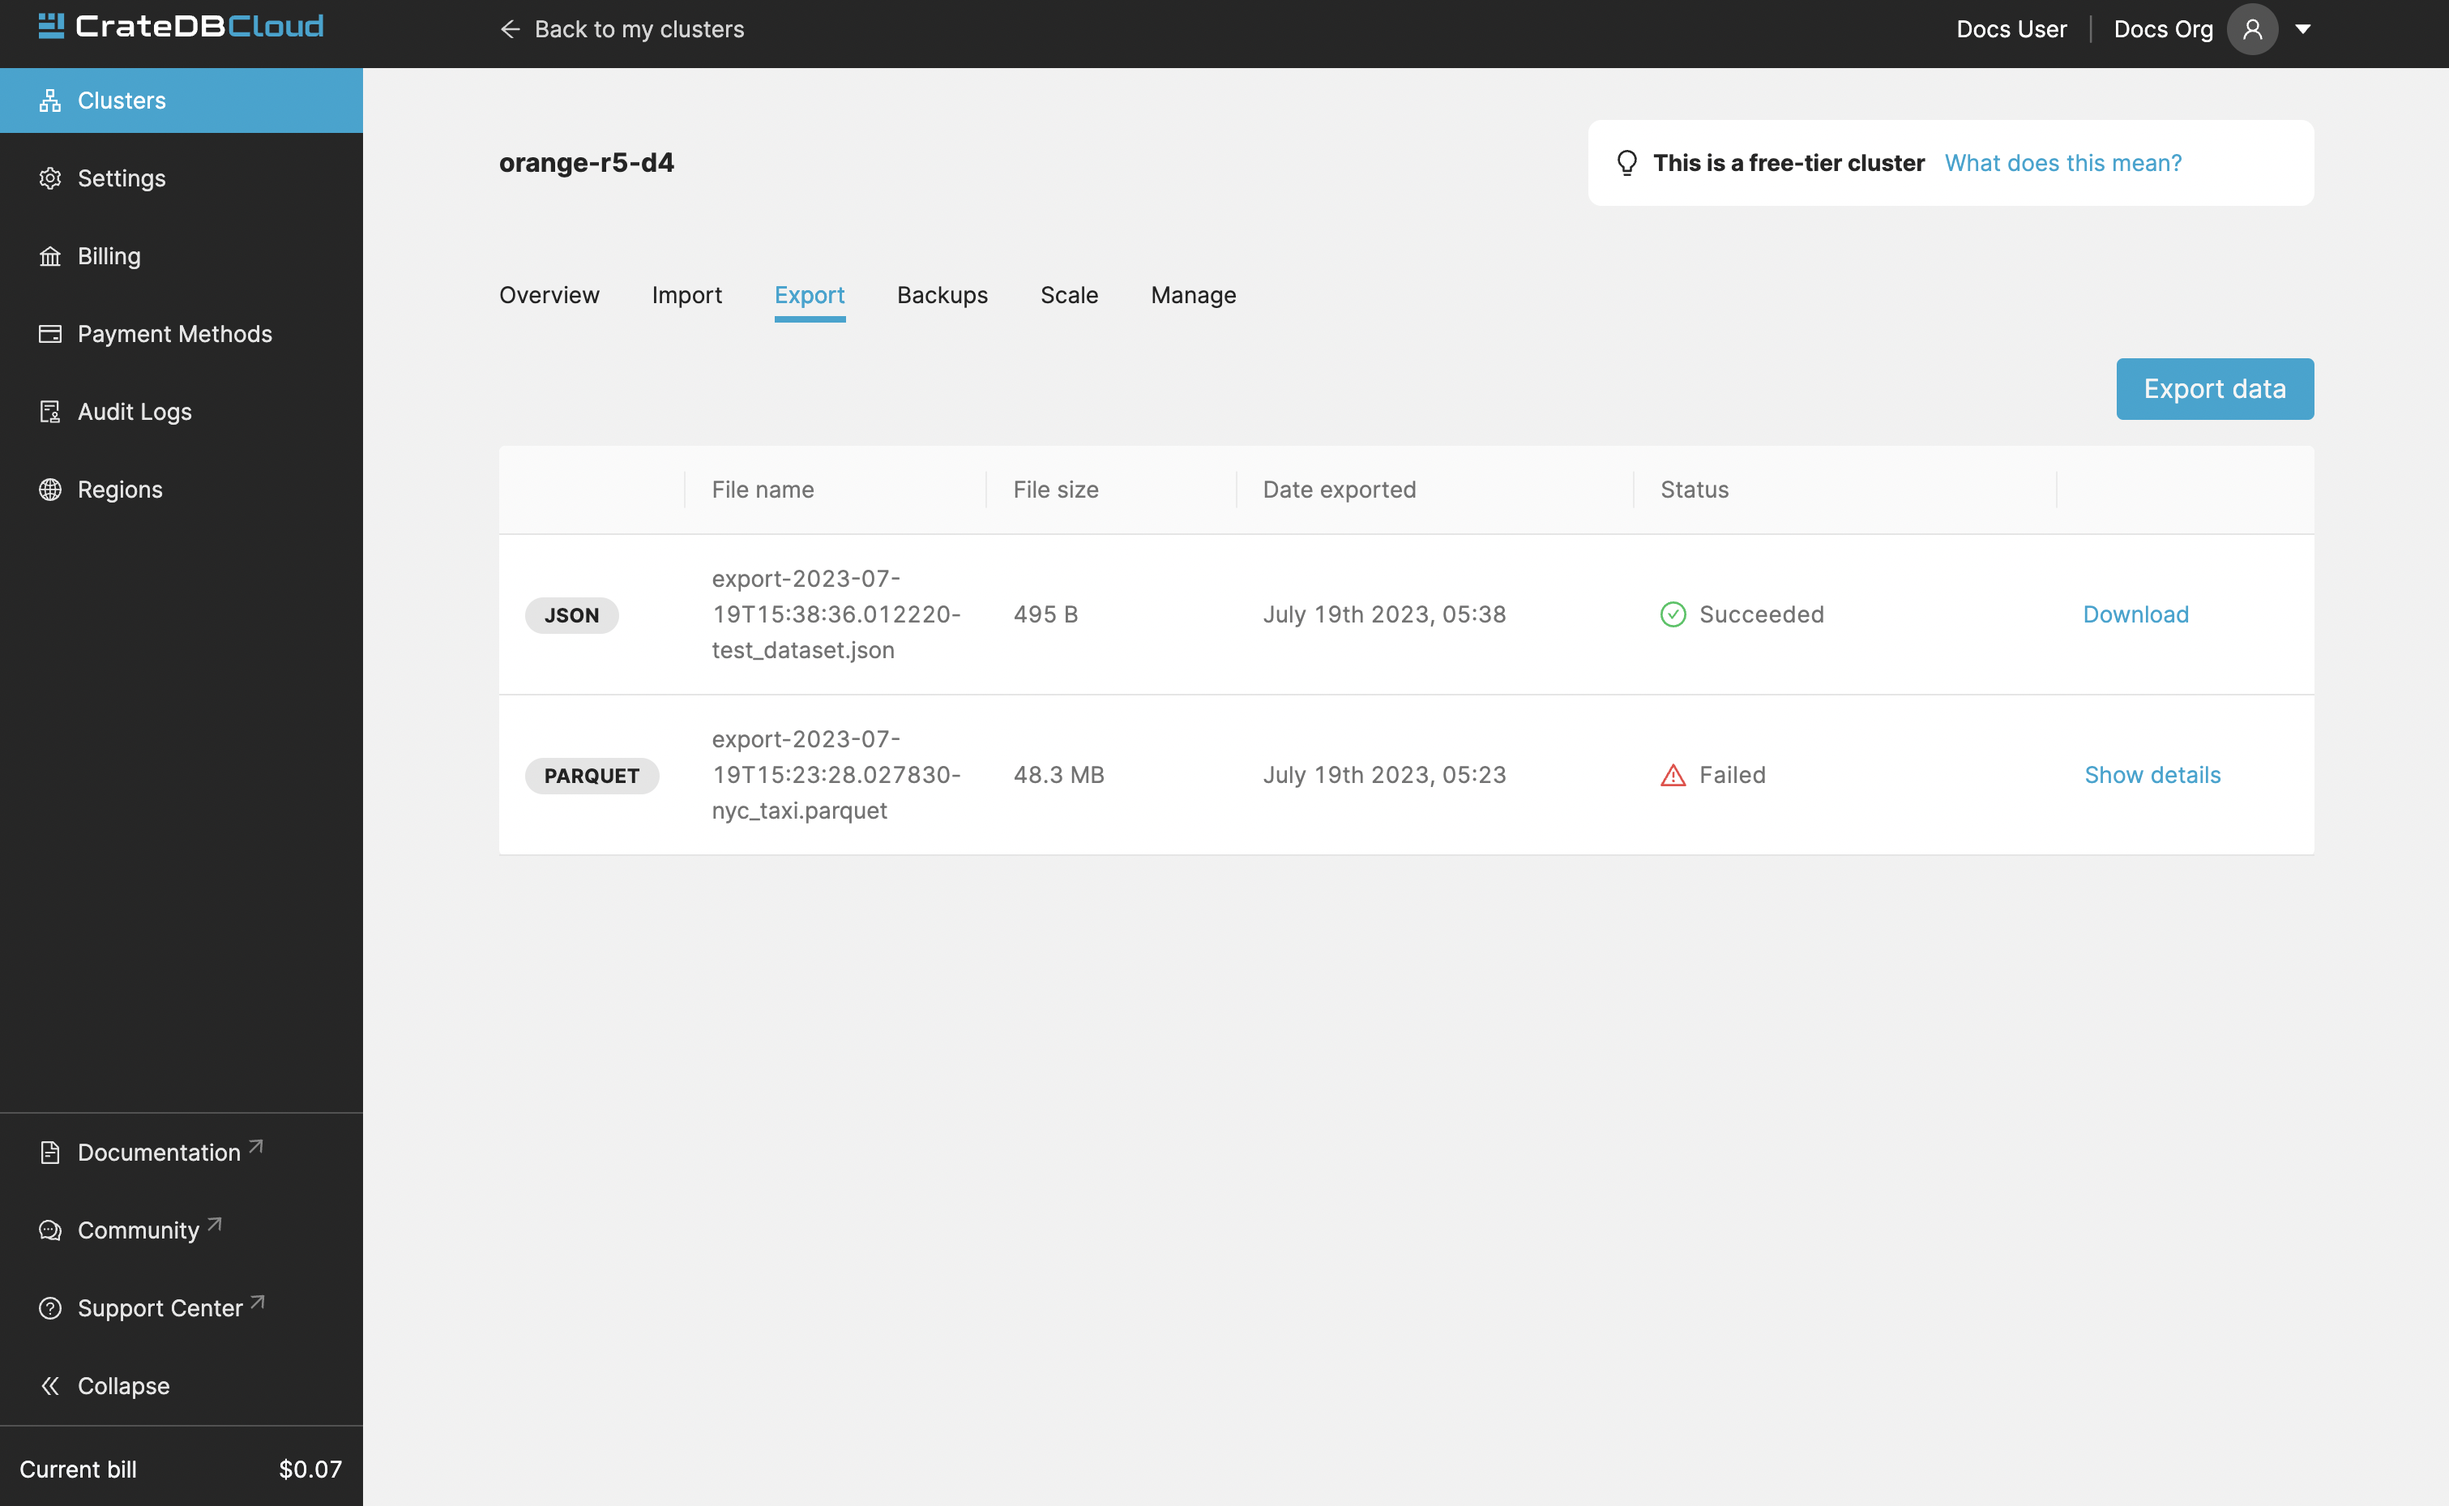
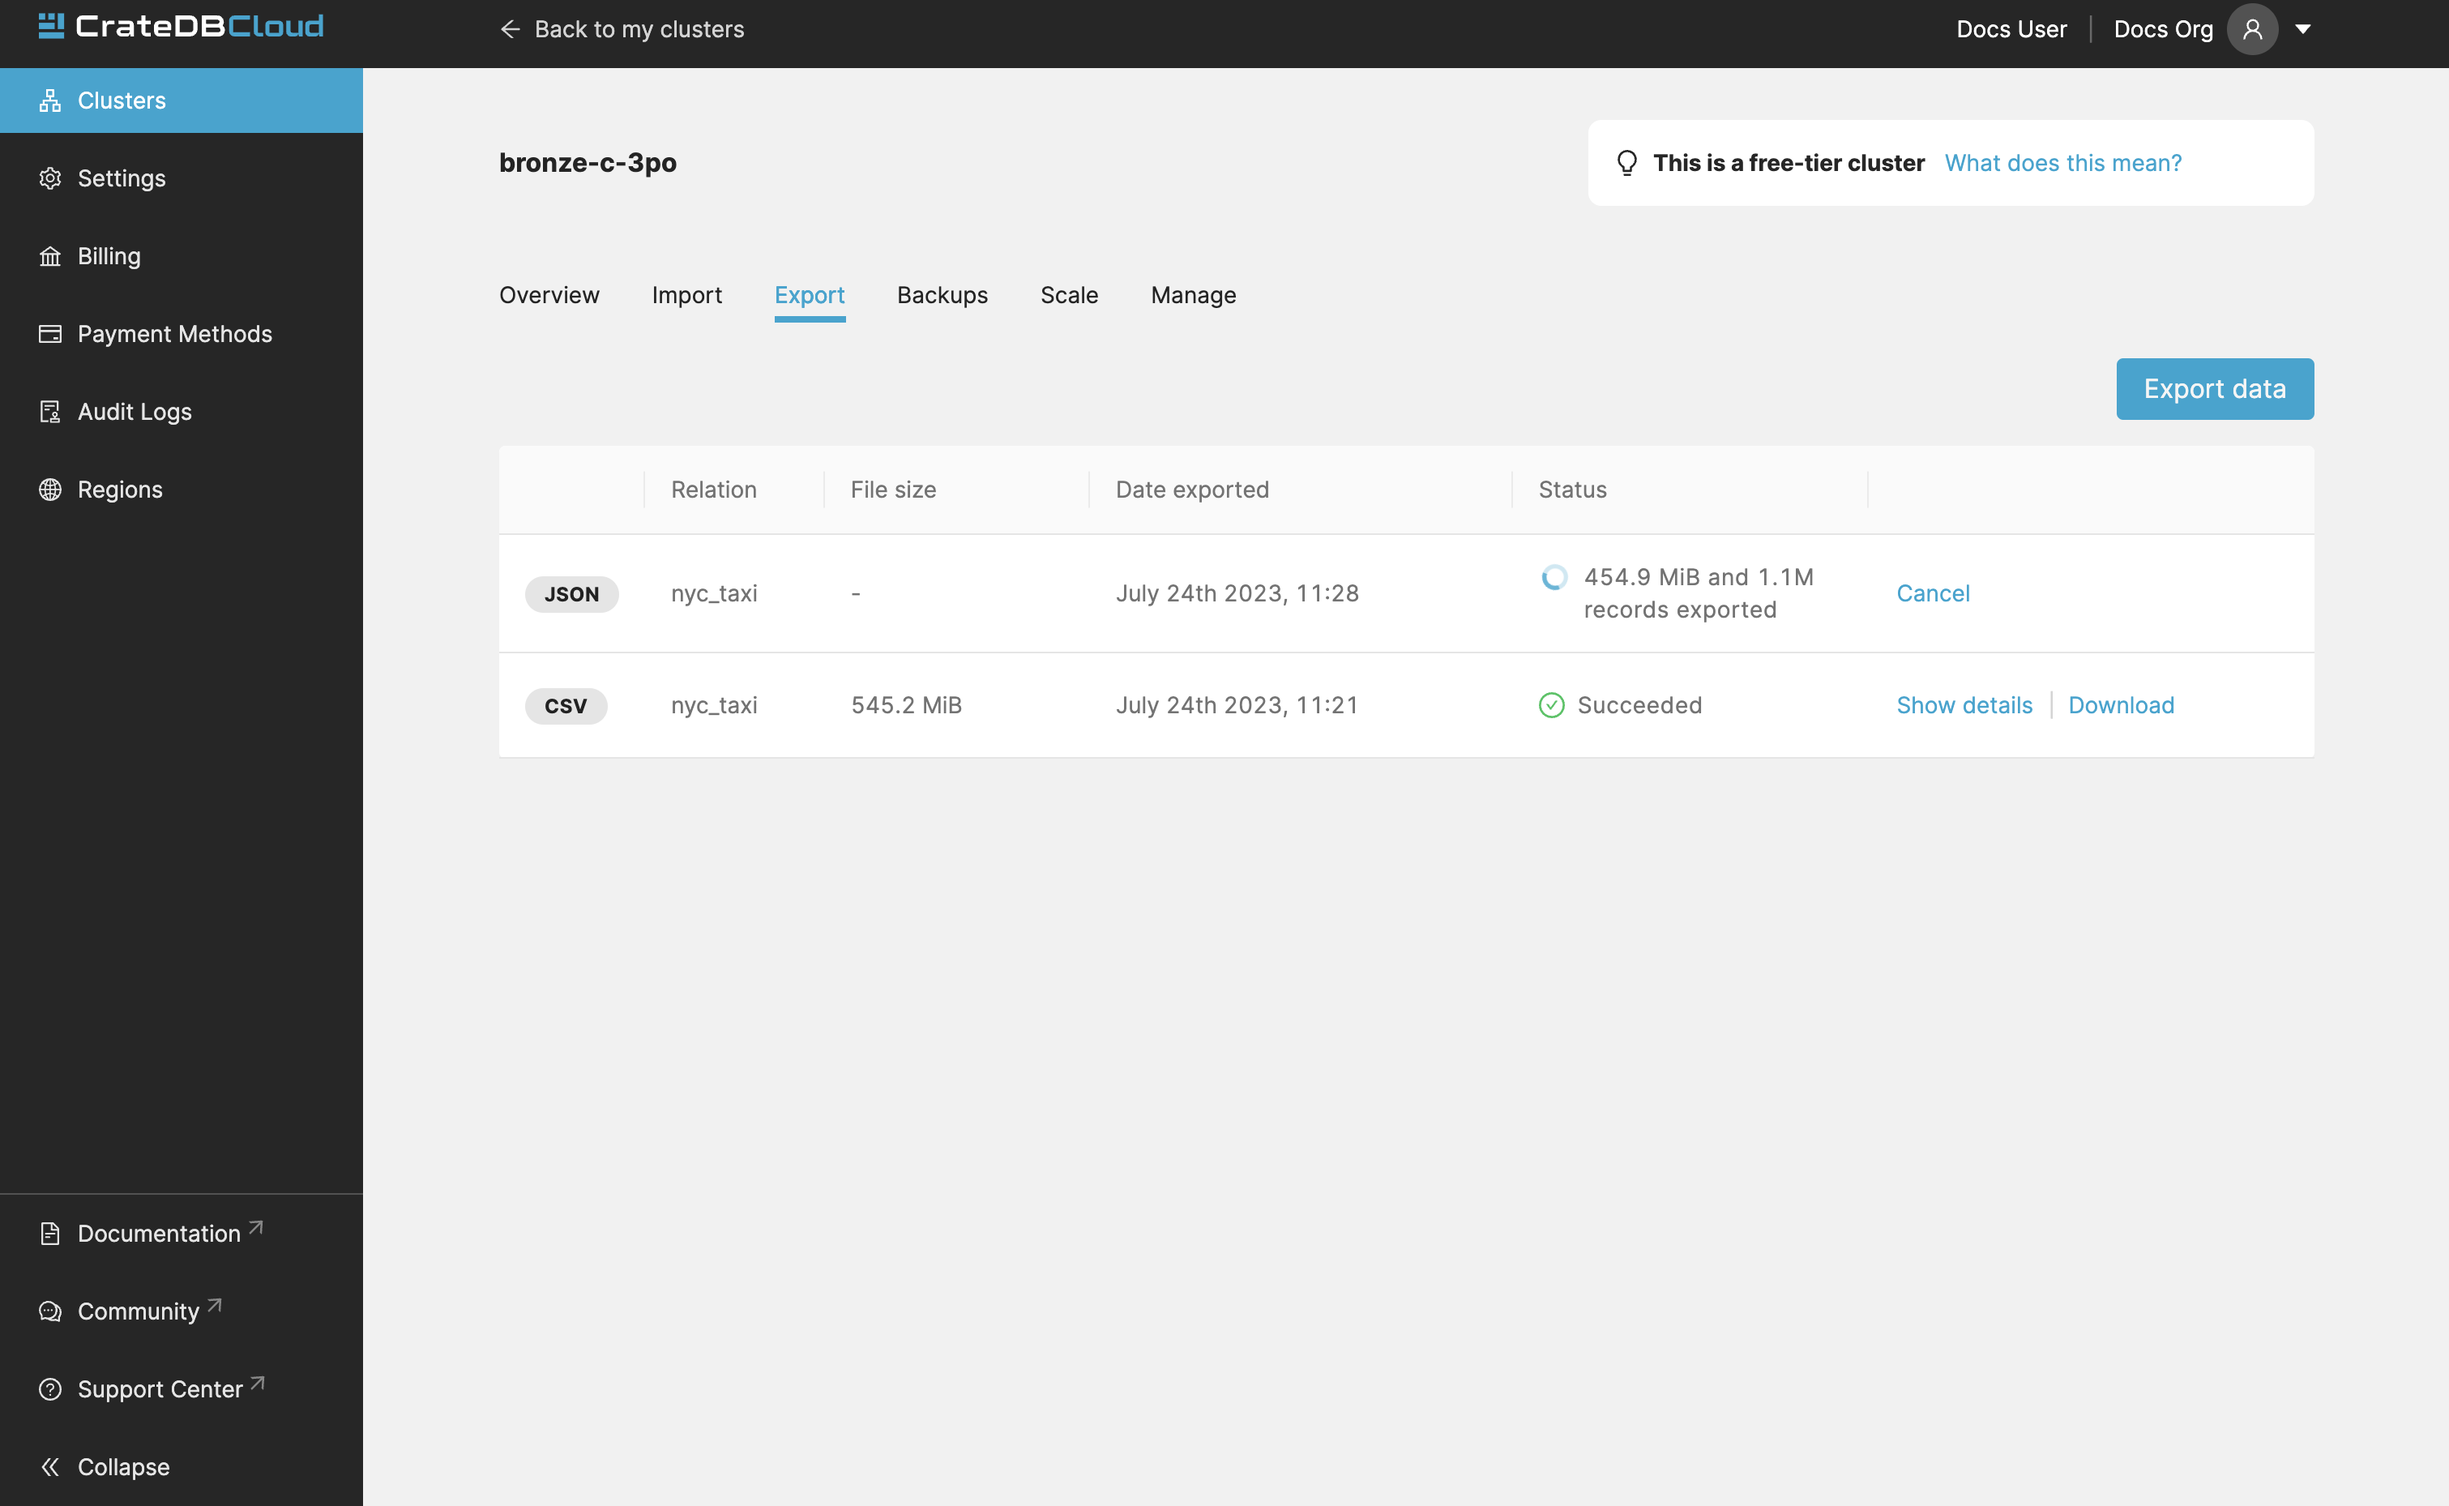
Remove parquet exports

diff --git a/docs/overview.rst b/docs/overview.rst
@@ -393,7 +393,7 @@ Export
 
 The export tab allows users to download specific tables/views. When you first
 visit the Export tab, you can specify the name of a table/view, format (CSV,
-Parquet, JSON) and compression in which you'd like to export your data. 
+JSON) and compression with which you'd like to export your data. 
 
 .. image:: _assets/img/cluster-export.png
    :alt: Cloud Console cluster export tab
@@ -409,7 +409,7 @@ History of your exports is also visible in the Export tab.
 
      - Size limit for exporting is 1 GiB
      - Exports are held for 3 days, then automatically deleted
-     
+
 .. _overview-cluster-backups:
 
 Backups
